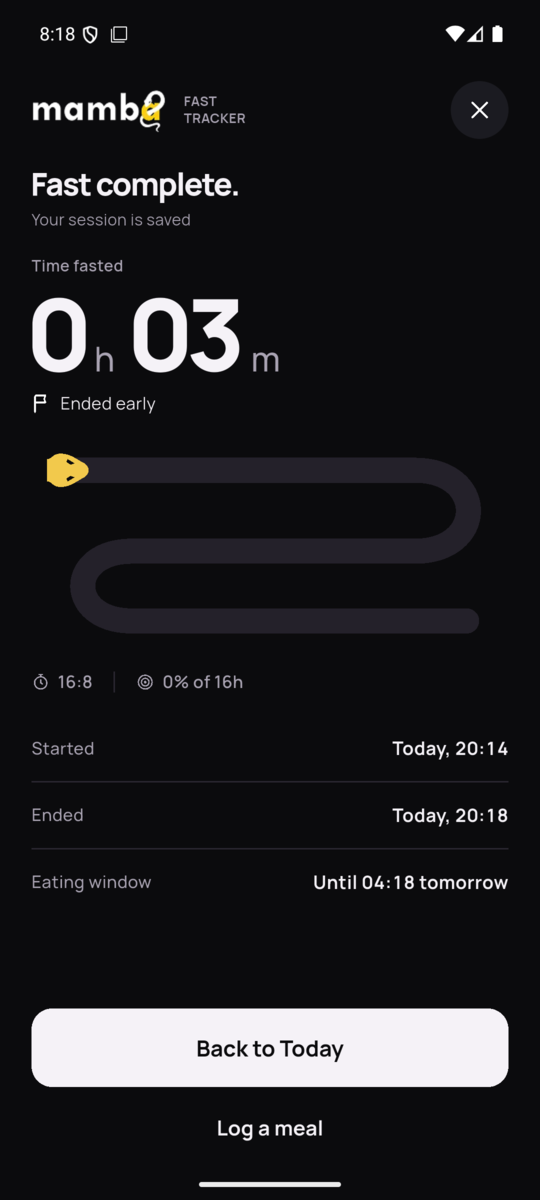
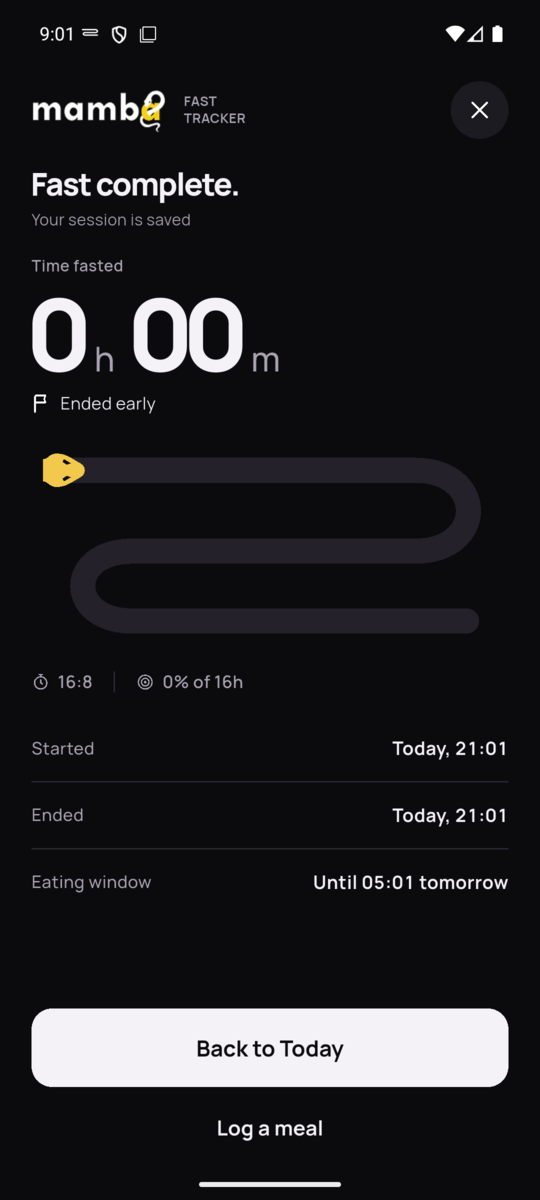
docs: show the settings screen and the cleaner Today

diff --git a/README.md b/README.md
@@ -27,9 +27,9 @@ To run the project, install that APK on an Android phone or emulator (Android 7.
 | --- | --- | --- |
 | ![Protocol selection](docs/screenshots/protocol.png) | ![End fast sheet](docs/screenshots/end-fast-sheet.png) | ![Ongoing notification](docs/screenshots/notification.png) |
 
-| Login | Login in Portuguese |
-| --- | --- |
-| ![Login](docs/screenshots/login.png) | ![Login in Portuguese](docs/screenshots/login-portuguese.png) |
+| Settings | Login | Login in Portuguese |
+| --- | --- | --- |
+| ![Settings](docs/screenshots/settings.png) | ![Login](docs/screenshots/login.png) | ![Login in Portuguese](docs/screenshots/login-portuguese.png) |
 
 ## Features
 
@@ -41,6 +41,7 @@ Done:
 - Local notifications when a fast starts and when its planned fasting goal is reached. The scheduled notification is restored, rescheduled, or canceled with the active session.
 - An ongoing notification counts the fasting time while the app is closed, and shows the frozen time while the fast is paused.
 - English and Portuguese. The app follows the language of the device, including dates and numbers.
+- Settings with a profile photo kept on the device, the account name, a password reset link, the language, the app version, and log out. The photo replaces the settings button in the header.
 - Meal tracking: add, edit, and delete today's meals with a name and calories. The meal time is recorded automatically, and meals are stored in SQLite so they remain after restarting the app.
 - Daily summary on Today: calories against a daily calorie limit, fasting time for the day, and whether the day is within goal. Ended fasts are stored in SQLite, so the totals remain after restarting the app.
 - History: previous days with records, newest first, grouped into this week, last week, and earlier. Each day opens a read-only summary with its fasts, meals, and goal status.
@@ -60,6 +61,7 @@ UI polish and release preparation are tracked in [GitHub Issues](https://github.
 - `flutter_svg` to draw the app's stroke icons from SVG paths
 - `flutter_localizations` and `intl` for English and Portuguese, and for localized dates and numbers
 - `flutter_launcher_icons` to generate the Android launcher icons from one image
+- `image_picker`, `path_provider`, and `package_info_plus` for the profile photo and the app version
 - Manrope (SIL Open Font License) bundled as the app font
 - `flutter_test` and `flutter_lints`
 - `sqflite_common_ffi` so repository tests run against real SQLite on the development machine and in CI
@@ -116,7 +118,7 @@ lib/
     auth/
       domain/           AuthUser, AuthFailure messages, login form rules
       data/             AuthRepository interface and its Firebase implementation
-      presentation/     AuthController, LoginScreen with account creation, password reset sheet, settings sheet
+      presentation/     AuthController, LoginScreen with account creation, password reset sheet, settings screen, profile button
     fasting/
       domain/           FastingProtocol, ProtocolSettings, FastingSession
       data/             ProtocolRepository, FastingRepository, CompletedFastRepository, and notification service
@@ -234,6 +236,7 @@ GitHub Actions runs these checks and `flutter build apk --release` on pull reque
 | Restore | A new provider container stands in for a killed process. A running fast restores with the correct elapsed time, a paused fast stays frozen, a fast whose target passed while the app was closed stays running with the goal reached, and an ended fast that was not copied to SQLite is copied once. A storage failure on restore shows an error, and a malformed stored session is removed. |
 | Notifications | The goal notification is scheduled, rescheduled, or canceled from the saved session after each transition and on restore. The ongoing notification counts from the start plus the paused time, freezes while paused, and disappears when the fast ends. Notification failures do not block the timer. |
 | Language | A device in Portuguese sees the app in Portuguese, and any other language falls back to English. |
+| Profile | Settings shows the account, the language, and the version. Saving a name updates the profile. The chosen photo is copied into the app's files and survives the original being deleted, each account keeps its own, and removing it deletes the file. |
 | Daily totals | Calories count only meals on the local day, and the limit itself is within goal. Fasting time counts on the day a fast ends, without paused time, and each fast is compared with its own target. The running fast adds to today. Totals match the stored data after a restart. |
 | History and week | Grouping by local day, today left out, this week and last week groups, the weekly summary, and past statuses after a limit change. |
 | Accounts | Creating an account, logging in, a wrong password, matching passwords on sign up, password reset, logging out, and the session after a restart, using an in-memory auth repository. Firebase error codes map to messages, and an unknown email and a wrong password show the same one. Logging out cancels the fasting notifications. |
@@ -419,6 +422,7 @@ Trade-off: every screen depends on the localizations, and a third language means
 - The ongoing notification needs the notification permission. If it is denied, the timer still works, but nothing shows outside the app.
 - Force-stopping the app from Android settings removes the ongoing notification until the app is opened again. Swiping the app away keeps it.
 - The app follows the language of the device. There is no language switch inside the app, and only English and Portuguese are translated.
+- The profile photo stays on the device. Reinstalling the app, or logging in on another phone, does not bring it back. Only the name travels with the account.
 - The app was checked on an Android 16 emulator (Pixel 7 profile), not on physical phones.
 
 ## What I Would Improve With More Time
